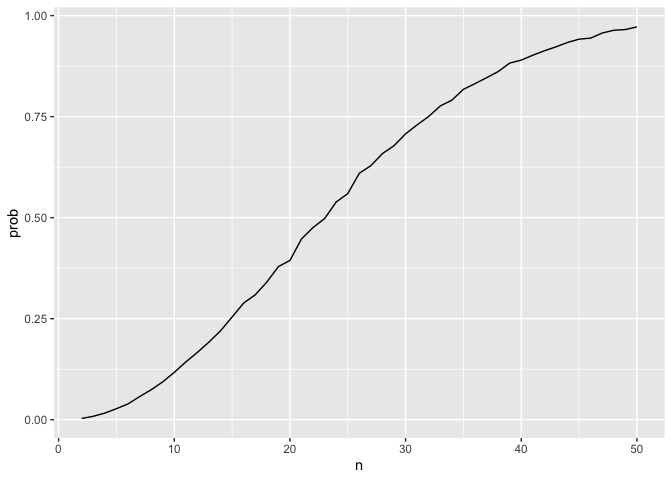
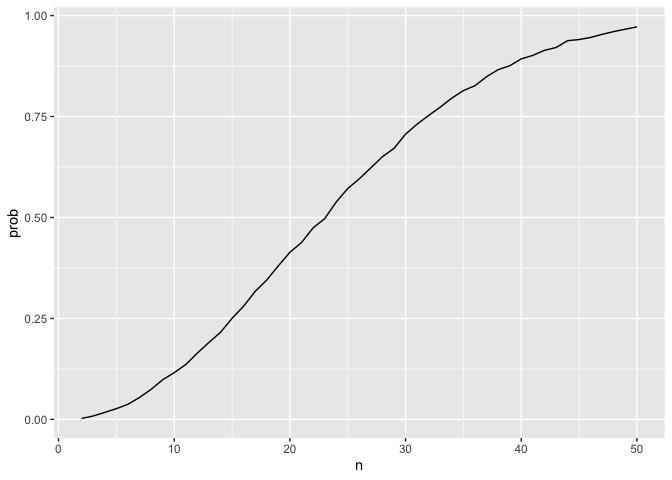
Added comments for problem 2 plots.

diff --git a/HW3.md b/HW3.md
@@ -27,8 +27,6 @@ bday_sim(50)
 
     ## [1] TRUE
 
-run this a lot
-
 ``` r
 sim_res = 
   expand_grid(
@@ -45,6 +43,11 @@ sim_res |>
 ```
 
 ![](HW3_files/figure-gfm/unnamed-chunk-2-1.png)<!-- -->
+
+As the number of people in the room increases from 2 to 50, the
+probability of two people having the same birthday increases. We only
+need 22 - 23 people in the same room to have the probability of two
+people having the same birthday equal to 0.5.
 
 ## Problem 2
 
@@ -101,9 +104,9 @@ sim_function(true_mean = 2)
 ```
 
     ## # A tibble: 1 × 3
-    ##   mu_hat p.value reject_null
-    ##    <dbl>   <dbl>       <dbl>
-    ## 1   2.36  0.0301           1
+    ##   mu_hat  p.value reject_null
+    ##    <dbl>    <dbl>       <dbl>
+    ## 1   2.84 0.000904           1
 
 Iterate this 5000 times.
 
@@ -145,12 +148,14 @@ print(plot1)
 
 ![](HW3_files/figure-gfm/unnamed-chunk-6-1.png)<!-- -->
 
-As the true mean deviates more from the null, which states that the true
-mean equals 0, the power of the test increases. In other words, as
-effect size increases, the power of the test increases. This
-relationship is not linear but resembles the shape of a sigmoid curve.
-The power gradually increases for smaller effect sizes, and rapidly
-increases as effective size increases and plateaus when power reaches 1.
+As the true mean deviates more from the null hypothesis value of 0, the
+power of the test increases. In other words, as effect size increases,
+the probability of correctly rejecting the null hypothesis increases.
+This relationship is not linear but rather sigmoidal. The power
+gradually increases for smaller effect sizes (when true $\mu$ is closer
+to 0), and rapidly increases as effect size increases. As effect sizes
+become larger, the power approaches its maximum value of 1, and the
+curve plateaus.
 
 ``` r
 plot2 =
@@ -178,7 +183,7 @@ combined_plot =
   labs(
     title = "Average mu_hat and average mu_rejected against true mean",
     x = "True Mean", 
-    y = "Average mu_hat (red) / Average mu_rejected (blue)"
+    y = "Average mu_hat (red) & Average mu_rejected (blue)"
   )
 
 print(combined_plot)
@@ -186,7 +191,17 @@ print(combined_plot)
 
 ![](HW3_files/figure-gfm/unnamed-chunk-7-1.png)<!-- -->
 
-Based on simulation data,
+The sample average $\hat{\mu}_{\text{rejected}}$ for tests in which the
+null hypothesis is rejected is approximately equal to the true mean
+$\mu$ when $\mu$ is sufficiently different from the null value (e.g.,
+$\hat{\mu}_{\text{rejected}} = 3, 4, 5, 6$). When
+$\hat{\mu}_{\text{rejected}}$ equals 0, 1 and 2, the observed sample
+mean is closer to the null hypothesis value, leading to the failure to
+reject the null. This finding is consistent with the power of the test,
+in that when $\mu$ deviates more from the null value of 0, the test is
+more likely to reject the null, and the sample mean
+$\hat{\mu}_{\text{rejected}}$ is a better approximation of the true mean
+$\mu$.
 
 ## Problem 3
 
@@ -196,7 +211,13 @@ observations and spans from 2010 to 2017. The important variables are
 `uid` (victim unique identifier), `reported_date` starting from 2010 to
 2017, `victim_race`, `victim_age`, `victim_sex`, `lat` & `lon` (location
 latitude and longitude), `disposition` - “Closed without arrest”,
-“Closed barrest”, and “Open/No arrest”, `city` and `state`.
+“Closed by arrest”, and “Open/No arrest”, `city` and `state`. This
+problem focuses on looking at the proportion of unsolved homicides,
+which are categorized as “Closed without arrest” and “Open/No arrest” in
+the dataset. This is crucial for understanding patterns of unsolved
+murders, identifying areas with low arrest rates, and examining the
+social, economic, and systemic factors that contribute to police
+impunity and community distrust.
 
 After inspecting the raw data, I noticed that “Tulsa, AL” is supposed to
 be “Tulsa, OK”. This has been recoded in the data cleaning step.
@@ -239,7 +260,7 @@ baltimore_prop =
   select(estimate, conf.low, conf.high)
 ```
 
-Do this for every city
+Do this for every city.
 
 ``` r
  homicide_summary = 
@@ -270,7 +291,7 @@ prop_results =
 ```
 
 Make a plot showing the estimated proportion of unsolved homicides with
-error bars
+error bars.
 
 ``` r
 homicide_plot = 
